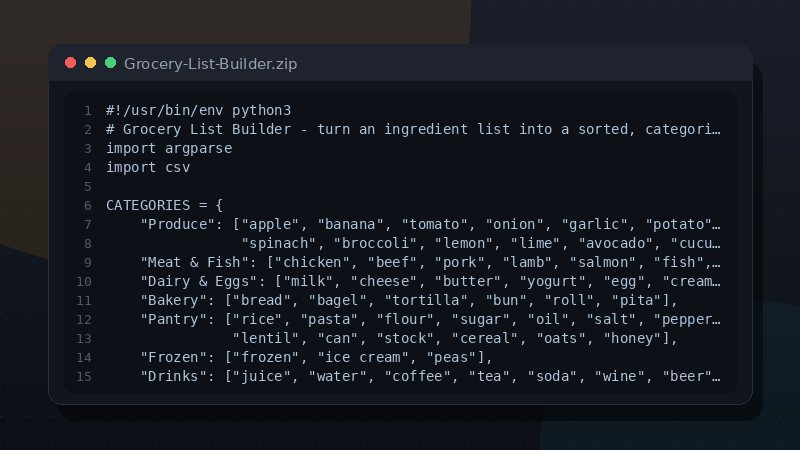
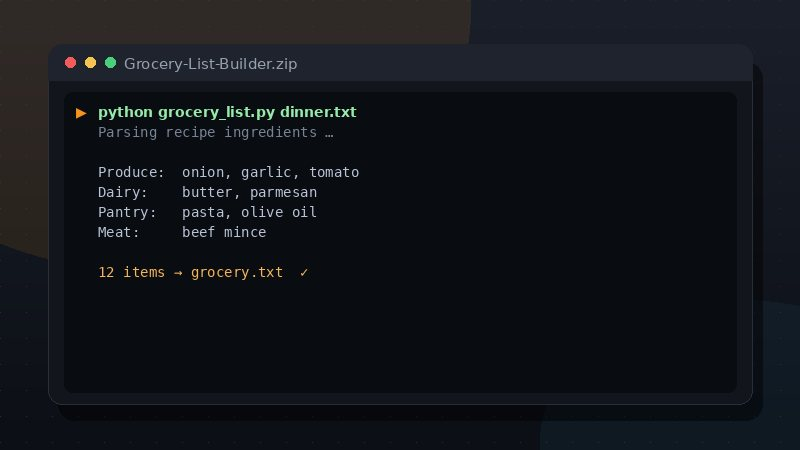
Script product covers now show runtime output instead of source code
Each Python .zip thumbnail renders a terminal transcript of the script
running: the command plus its real result (report, resized photos,
scaled recipe, generated passwords, merged PDF, groups, etc.).

diff --git a/tools/make_covers.py b/tools/make_covers.py
@@ -167,7 +167,248 @@ def cover_pptx(path):
     return img
 
 
-def cover_zip(path):
+RUN_OUTPUT = {
+    "csv-report-tool": [
+        "python csv_report.py sample-sales.csv",
+        "Reading sample-sales.csv \u2026 1,240 rows",
+        "",
+        "column      type     unique",
+        "date        date        118",
+        "region      text          4",
+        "units       int         198",
+        "revenue     float     1,240",
+        "",
+        "Wrote report.md  \u2713",
+    ],
+    "bulk-file-organizer": [
+        "python organize.py ~/Downloads",
+        "Scanning ~/Downloads \u2026 143 files",
+        "",
+        "Images/        62 files",
+        "Documents/     28 files",
+        "Spreadsheets/   9 files",
+        "Archives/      14 files",
+        "Audio/          7 files",
+        "",
+        "Organised 143 files into 5 folders  \u2713",
+    ],
+    "duplicate-file-finder": [
+        "python find_duplicates.py ~/Pictures",
+        "Scanning 2,184 files \u2026",
+        "",
+        "12 groups of duplicates found",
+        "  IMG_2043.jpg = IMG_2043 (1).jpg",
+        "  IMG_2051.jpg = IMG_2051 (1).jpg",
+        "  holiday.png  = holiday (copy).png",
+        "",
+        "2.4 GB reclaimable  \u2713",
+    ],
+    "csv-to-excel-converter": [
+        "python csv_to_excel.py data.csv",
+        "Loaded data.csv \u2014 8,320 rows",
+        "",
+        "Writing data.xlsx \u2026",
+        "  Sheet1   8,320 rows \u00d7 12 cols",
+        "",
+        "Saved data.xlsx  \u2713",
+    ],
+    "expense-csv-analyzer": [
+        "python analyze_expenses.py 2026.csv",
+        "Analysing 642 transactions \u2026",
+        "",
+        "Groceries      $  6,214",
+        "Transport      $  1,880",
+        "Rent           $ 18,000",
+        "Dining         $  2,341",
+        "",
+        "Total spend    $ 30,127",
+    ],
+    "pdf-toolkit": [
+        "python pdf_toolkit.py merge a.pdf b.pdf",
+        "Opened a.pdf (12 pages)",
+        "Opened b.pdf  (7 pages)",
+        "",
+        "Merging \u2026",
+        "Wrote merged.pdf \u2014 19 pages  \u2713",
+    ],
+    "image-batch-resizer": [
+        "python resize_images.py photos/ 1200",
+        "Found 86 images",
+        "",
+        "Resizing by width \u2192 1200 px",
+        "  photos/out/   86 files",
+        "",
+        "Done in 3.2s  \u2713",
+    ],
+    "qr-code-generator": [
+        "python make_qr.py 'https://mysite.com'",
+        "Encoding \u2026 error-correction M",
+        "",
+        "Wrote qr.png \u2014 512\u00d7512  \u2713",
+        "Scan with any phone camera to open it.",
+    ],
+    "secure-password-generator": [
+        "python gen_password.py --count 3 -l 16",
+        "Generating 3 passwords \u2026",
+        "",
+        "k7#Pq2Lm9Xr4Tz1w",
+        "Vh8$Bn3Yd6Wq0Ks5",
+        "Rj2!Fm7Cv1Zp9Lx4",
+        "",
+        "Copy one and keep it safe  \u2713",
+    ],
+    "batch-file-renamer": [
+        "python rename.py --prefix trip_###",
+        "Renaming 24 files \u2026",
+        "",
+        "DSC0001.jpg  \u2192  trip_001.jpg",
+        "DSC0002.jpg  \u2192  trip_002.jpg",
+        "DSC0003.jpg  \u2192  trip_003.jpg",
+        "\u2026 21 more",
+        "",
+        "Renamed 24 files  \u2713",
+    ],
+    "simple-web-scraper": [
+        "python scrape.py news.example.com",
+        "Fetching page \u2026 200 OK",
+        "",
+        "1. Markets rally on rate news",
+        "2. New battery breaks record",
+        "3. City opens river park",
+        "4. Team wins championship",
+        "",
+        "Saved 42 items \u2192 items.csv  \u2713",
+    ],
+    "csv-data-cleaner": [
+        "python clean_csv.py messy.csv",
+        "Loaded messy.csv \u2014 5,100 rows",
+        "",
+        "Trimmed whitespace   1,204 cells",
+        "Removed duplicates      312 rows",
+        "Filled blank cells       58",
+        "",
+        "Saved messy_clean.csv  \u2713",
+    ],
+    "recipe-scaler-py": [
+        "python scale_recipe.py cake.txt -s 6",
+        "Recipe for 4 \u2192 scaled to 6",
+        "",
+        "Flour       300 g  \u2192  450 g",
+        "Sugar       200 g  \u2192  300 g",
+        "Butter      180 g  \u2192  270 g",
+        "Eggs          3    \u2192  4.5",
+        "",
+        "Scaled recipe saved  \u2713",
+    ],
+    "flashcard-quiz": [
+        "python quiz.py spanish.csv",
+        "Question 1 / 20",
+        "",
+        "  Como se dice 'house'?",
+        "  > casa",
+        "  Correct!  \u2713    1 / 1",
+        "",
+        "Score so far: 100%",
+    ],
+    "grade-calculator-py": [
+        "python grade_calc.py class.csv",
+        "Loaded 38 students \u2026",
+        "",
+        "Average     82.4   (B)",
+        "Highest     98     (A)",
+        "Lowest      61     (D)",
+        "Pass rate   92%",
+        "",
+        "Saved grades.csv  \u2713",
+    ],
+    "random-group-generator": [
+        "python make_groups.py team.txt -g 3",
+        "Loaded 15 names \u2192 3 groups",
+        "",
+        "Group A: Ava, Ben, Mia, Leo, Zoe",
+        "Group B: Sam, Nora, Kai, Ivy, Tom",
+        "Group C: Eli, Ruby, Max, Ana, Jon",
+        "",
+        "Groups saved  \u2713",
+    ],
+    "packing-list-generator": [
+        "python packing_list.py beach 5",
+        "Building list for 5 days \u2026",
+        "",
+        "[x] Sunscreen    [x] Swimwear",
+        "[x] 5 t-shirts   [x] Shorts",
+        "[x] Passport     [x] Charger",
+        "",
+        "24 items \u2192 packing_list.txt  \u2713",
+    ],
+    "interval-timer": [
+        "python interval_timer.py 30 10",
+        "Work 30s / Rest 10s \u2014 8 rounds",
+        "",
+        "  WORK   00:30",
+        "  REST   00:10",
+        "  \u2026",
+        "Round 8 / 8 complete  \u2713",
+    ],
+    "images-to-pdf": [
+        "python images_to_pdf.py scans/",
+        "Found 43 images",
+        "",
+        "Adding to PDF \u2026",
+        "  page 43 / 43",
+        "",
+        "Wrote scans.pdf \u2014 43 pages  \u2713",
+    ],
+    "pdf-to-text": [
+        "python pdf_to_text.py report.pdf",
+        "Opened report.pdf (19 pages)",
+        "Extracting text \u2026",
+        "",
+        "Wrote report.txt \u2014 24,180 chars",
+        "First line: 'Quarterly Summary'  \u2713",
+    ],
+    "grocery-list-builder": [
+        "python grocery_list.py dinner.txt",
+        "Parsing recipe ingredients \u2026",
+        "",
+        "Produce:  onion, garlic, tomato",
+        "Dairy:    butter, parmesan",
+        "Pantry:   pasta, olive oil",
+        "Meat:     beef mince",
+        "",
+        "12 items \u2192 grocery.txt  \u2713",
+    ],
+}
+
+
+def cover_script(pid, path):
+    img, d = window(os.path.basename(path))
+    lines = RUN_OUTPUT.get(pid)
+    x0, y0, x1, y1 = CB
+    d.rounded_rectangle([x0, y0, x1, y1], radius=8, fill=(9, 12, 17))
+    fm = F(FM, 14)
+    fb = F(FB, 14)
+    maxw = x1 - x0 - 48
+    if not lines:
+        return cover_zipcode(path)
+    yy = y0 + 12
+    for i, ln in enumerate(lines):
+        if i == 0:
+            d.text((x0 + 12, yy), "\u25b6", font=fb, fill=(247, 147, 26))
+            d.text((x0 + 34, yy), fit_text(d, ln, fb, maxw), font=fb, fill=(150, 235, 170))
+        elif ln.startswith("\u2713") or ln.endswith("\u2713"):
+            d.text((x0 + 34, yy), fit_text(d, ln, fm, maxw), font=fm, fill=(247, 180, 90))
+        elif i == 1 and "\u2026" in ln:
+            d.text((x0 + 34, yy), fit_text(d, ln, fm, maxw), font=fm, fill=(120, 132, 150))
+        else:
+            d.text((x0 + 34, yy), fit_text(d, ln, fm, maxw), font=fm, fill=(184, 196, 214))
+        yy += 20
+        if yy > y1 - 8:
+            break
+    return img
+
+
+def cover_zipcode(path):
     img, d = window(os.path.basename(path))
     import zipfile
     z = zipfile.ZipFile(path)
@@ -213,7 +454,7 @@ def make(p):
         if ext == "xlsx": return cover_xlsx(fp)
         if ext == "docx": return cover_docx(fp)
         if ext == "pptx": return cover_pptx(fp)
-        if ext == "zip": return cover_zip(fp)
+        if ext == "zip": return cover_script(p["id"], fp)
     except Exception as e:
         print("FAIL", p["id"], e)
         return None
